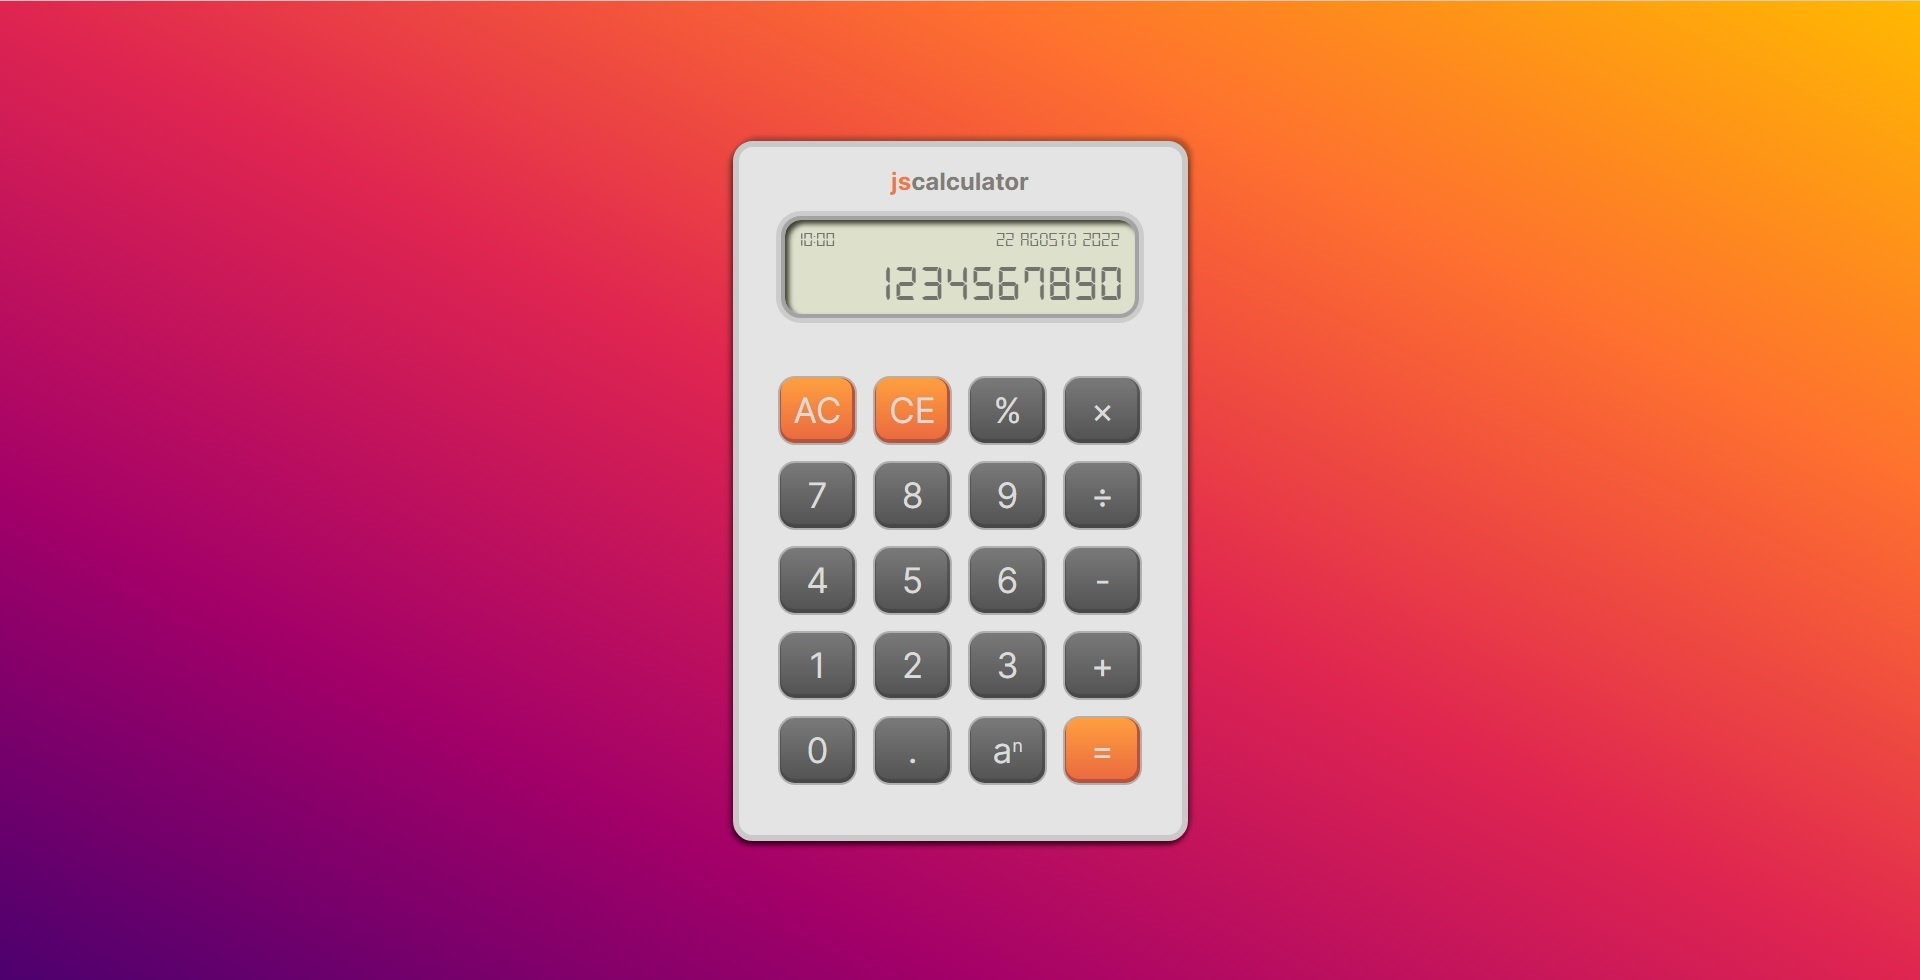
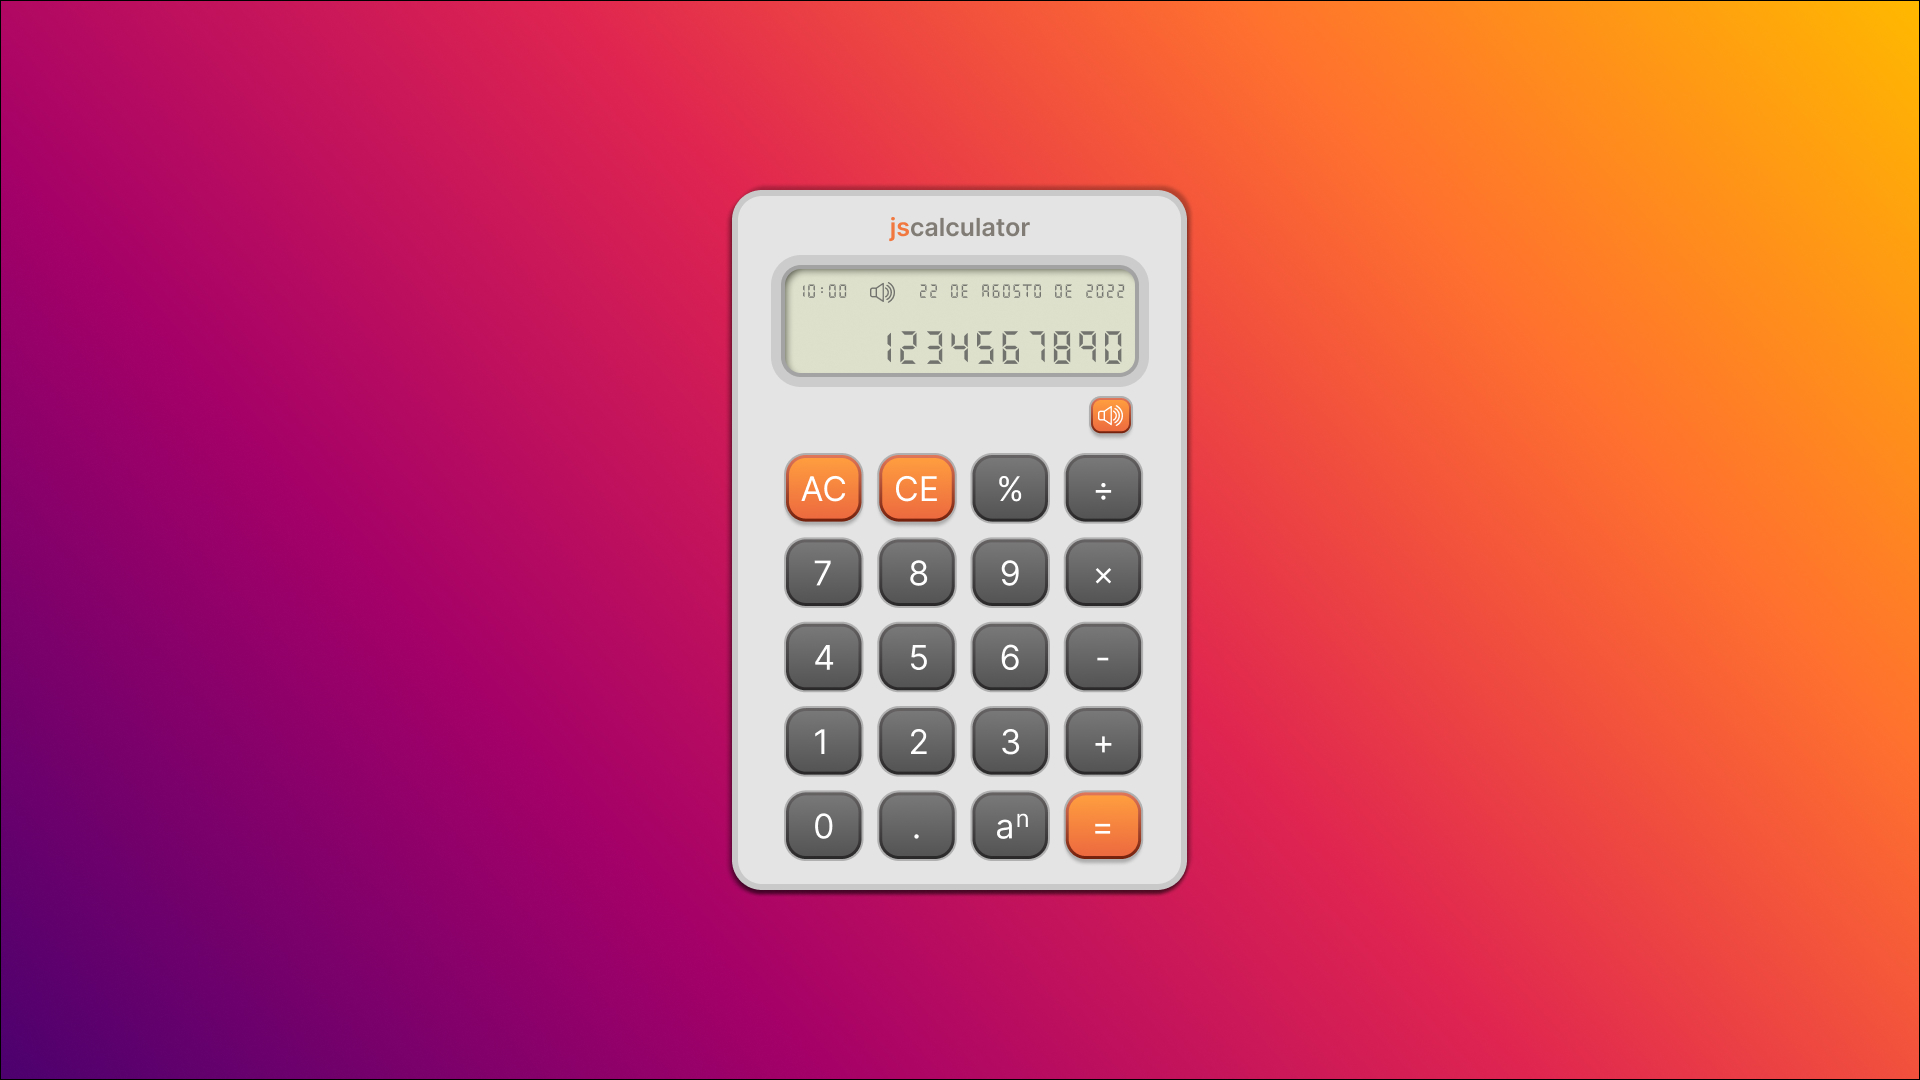
:shirt: refactor(html|css): calculator layout

diff --git a/index.html b/index.html
@@ -15,36 +15,45 @@
         </div>
         <div class="calculator-display">
           <div class="calculator-display-datetime">
-            <div id="time" class="calculator-display-time">10:00</div>
-            <div id="date" class="calculator-display-date">22 AGOSTO 2022</div>
+            <div id="time" class="calculator-display-time"></div>
+            <div id="sound" class="calculator-display-sound" style="display: none;">
+              <img src="/assets/images/sound-icon.svg" alt="sound icon">
+            </div>
+            <div id="date" class="calculator-display-date"></div>
           </div>
-          <div id="display" class="calculator-display-result">1234567890</div>
+          <div id="result" class="calculator-display-result"></div>
+        </div>
+        <div class="calculator-sound-container">
+          <div id="btn-sound" class="calculator-sound-button">
+            <img src="/assets/images/sound-icon.svg" alt="sound icon">
+          </div>
         </div>
         <div id="buttons" class="calculator-buttons-container">
-          <div class="calculator-button color-secondary btn-ac">AC</div>
-          <div class="calculator-button color-secondary btn-ce">CE</div>
-          <div class="calculator-button color-primary btn-percent">%</div>
-          <div class="calculator-button color-primary btn-times">×</div>
-          <div class="calculator-button color-primary bnt-7">7</div>
-          <div class="calculator-button color-primary bnt-8">8</div>
-          <div class="calculator-button color-primary bnt-9">9</div>
-          <div class="calculator-button color-primary bnt-divide">÷</div>
-          <div class="calculator-button color-primary bnt-4">4</div>
-          <div class="calculator-button color-primary bnt-5">5</div>
-          <div class="calculator-button color-primary bnt-6">6</div>
-          <div class="calculator-button color-primary bnt-minus">-</div>
-          <div class="calculator-button color-primary bnt-1">1</div>
-          <div class="calculator-button color-primary bnt-2">2</div>
-          <div class="calculator-button color-primary bnt-3">3</div>
-          <div class="calculator-button color-primary bnt-plus">+</div>
-          <div class="calculator-button color-primary bnt-0">0</div>
-          <div class="calculator-button color-primary bnt-dot">.</div>
-          <div class="calculator-button color-primary bnt-power">
+          <div id="btn-ac" class="calculator-button color-secondary">AC</div>
+          <div id="btn-ce" class="calculator-button color-secondary">CE</div>
+          <div id="btn-percent" class="calculator-button color-primary">%</div>
+          <div id="btn-times" class="calculator-button color-primary">×</div>
+          <div id="btn-7" class="calculator-button color-primary">7</div>
+          <div id="btn-8" class="calculator-button color-primary">8</div>
+          <div id="btn-9" class="calculator-button color-primary">9</div>
+          <div id="btn-divide" class="calculator-button color-primary">÷</div>
+          <div id="btn-4" class="calculator-button color-primary">4</div>
+          <div id="btn-5" class="calculator-button color-primary">5</div>
+          <div id="btn-6" class="calculator-button color-primary">6</div>
+          <div id="btn-minus" class="calculator-button color-primary">-</div>
+          <div id="btn-1" class="calculator-button color-primary">1</div>
+          <div id="btn-2" class="calculator-button color-primary">2</div>
+          <div id="btn-3" class="calculator-button color-primary">3</div>
+          <div id="btn-plus" class="calculator-button color-primary">+</div>
+          <div id="btn-0" class="calculator-button color-primary">0</div>
+          <div id="btn-dot" class="calculator-button color-primary">.</div>
+          <div id="btn-power" class="calculator-button color-primary">
             a<sup>n</sup>
           </div>
-          <div class="calculator-button color-secondary bnt-equals">=</div>
+          <div id="btn-equals" class="calculator-button color-secondary">=</div>
         </div>
       </div>
     </div>
+    <script type="module" src="/assets/js/calculator.js"></script>
   </body>
 </html>

diff --git a/assets/css/style.css b/assets/css/style.css
@@ -26,6 +26,8 @@ body {
 
 sup {
   font-size: 0.5em;
+  position: relative;
+  bottom: 5px;
 }
 
 .calculator-container {
@@ -74,6 +76,7 @@ sup {
   box-shadow: 0px 0px 0px 5px #cccccc, 2px 2px 0px #e0e0e0,
     inset 4px 4px 5px #404235;
   border-radius: 10px;
+  overflow-wrap: anywhere;
 }
 
 .calculator-display-datetime {
@@ -87,7 +90,8 @@ sup {
 .calculator-display-result {
   height: 30px;
   padding: 6px;
-  font-size: 25px;
+  font-size: 34px;
+  text-align: right;
   display: flex;
   justify-content: flex-end;
   align-items: center;
@@ -95,7 +99,6 @@ sup {
 }
 
 .calculator-buttons-container {
-  margin-top: 30px;
   display: flex;
   flex-wrap: wrap;
   justify-content: center;
@@ -115,20 +118,49 @@ sup {
   cursor: pointer;
 }
 
-.calculator-button:active {
+.calculator-button:active,
+.calculator-sound-button:active {
   filter: brightness(110%);
 }
 
 .color-primary {
   background: linear-gradient(180deg, #7a7a7a 0%, #525252 100%);
-  box-shadow: 0px 0px 0px 2px #b0b0b0, 0px 0px 0px rgba(60, 60, 60, 0.25),
-    inset -1px -2px 0px 2px rgba(60, 60, 60, 0.5);
+  box-shadow: 0px 0px 0px 2px #b0b0b0, inset 0px 0px 0px 2px rgb(60 60 60 / 70%);
 }
 
 .color-secondary {
   background: linear-gradient(180deg, #ffa03f 0%, #eb673f 100%);
-  box-shadow: 0px 0px 0px 2px #b0b0b0, 0px 0px 0px rgba(187, 81, 54),
-    inset -1px -2px 0px 2px rgba(187, 81, 54);
+  box-shadow: 0px 0px 0px 2px #b0b0b0,
+    inset 0px 0px 0px 2px rgb(186 80 54 / 70%);
+}
+
+.calculator-display-sound img {
+  width: 13px;
+}
+
+.calculator-sound-container {
+  width: 210px;
+  display: flex;
+  justify-content: flex-end;
+}
+
+.calculator-sound-button {
+  width: 25px;
+  height: 21px;
+  border-radius: 5px;
+  margin: 15px 5px 10px;
+  padding: 5px;
+  display: flex;
+  justify-content: center;
+  align-items: center;
+  cursor: pointer;
+  background: linear-gradient(180deg, #ffa03f 0%, #eb673f 100%);
+  box-shadow: 0px 0px 0px 1px #b0b0b0,
+    inset 0px 0px 0px 1px rgb(186 80 54 / 70%);
+}
+
+.calculator-sound-button img {
+  width: 100%;
 }
 
 @media (min-width: 576px) {
@@ -156,12 +188,8 @@ sup {
 
   .calculator-display-result {
     height: 60px;
-    padding: 10px;
-    font-size: 50px;
-  }
-
-  .calculator-buttons-container {
-    margin-top: 50px;
+    padding: 8px;
+    font-size: 64px;
   }
 
   .calculator-button {
@@ -170,5 +198,26 @@ sup {
     border-radius: 15px;
     margin: 10px;
     font-size: 35px;
+  }
+
+  .calculator-display-sound img {
+    width: 20px;
+  }
+  
+  .calculator-sound-container {
+    width: 358px;
+    display: flex;
+    justify-content: flex-end;
+  }
+  
+  .calculator-sound-button {
+    width: 42px;
+    height: 35px;
+    border-radius: 10px;
+    margin: 20px 10px 15px;
+    padding: 8px;
+    background: linear-gradient(180deg, #ffa03f 0%, #eb673f 100%);
+    box-shadow: 0px 0px 0px 2px #b0b0b0,
+      inset 0px 0px 0px 2px rgb(186 80 54 / 70%);
   }
 }
